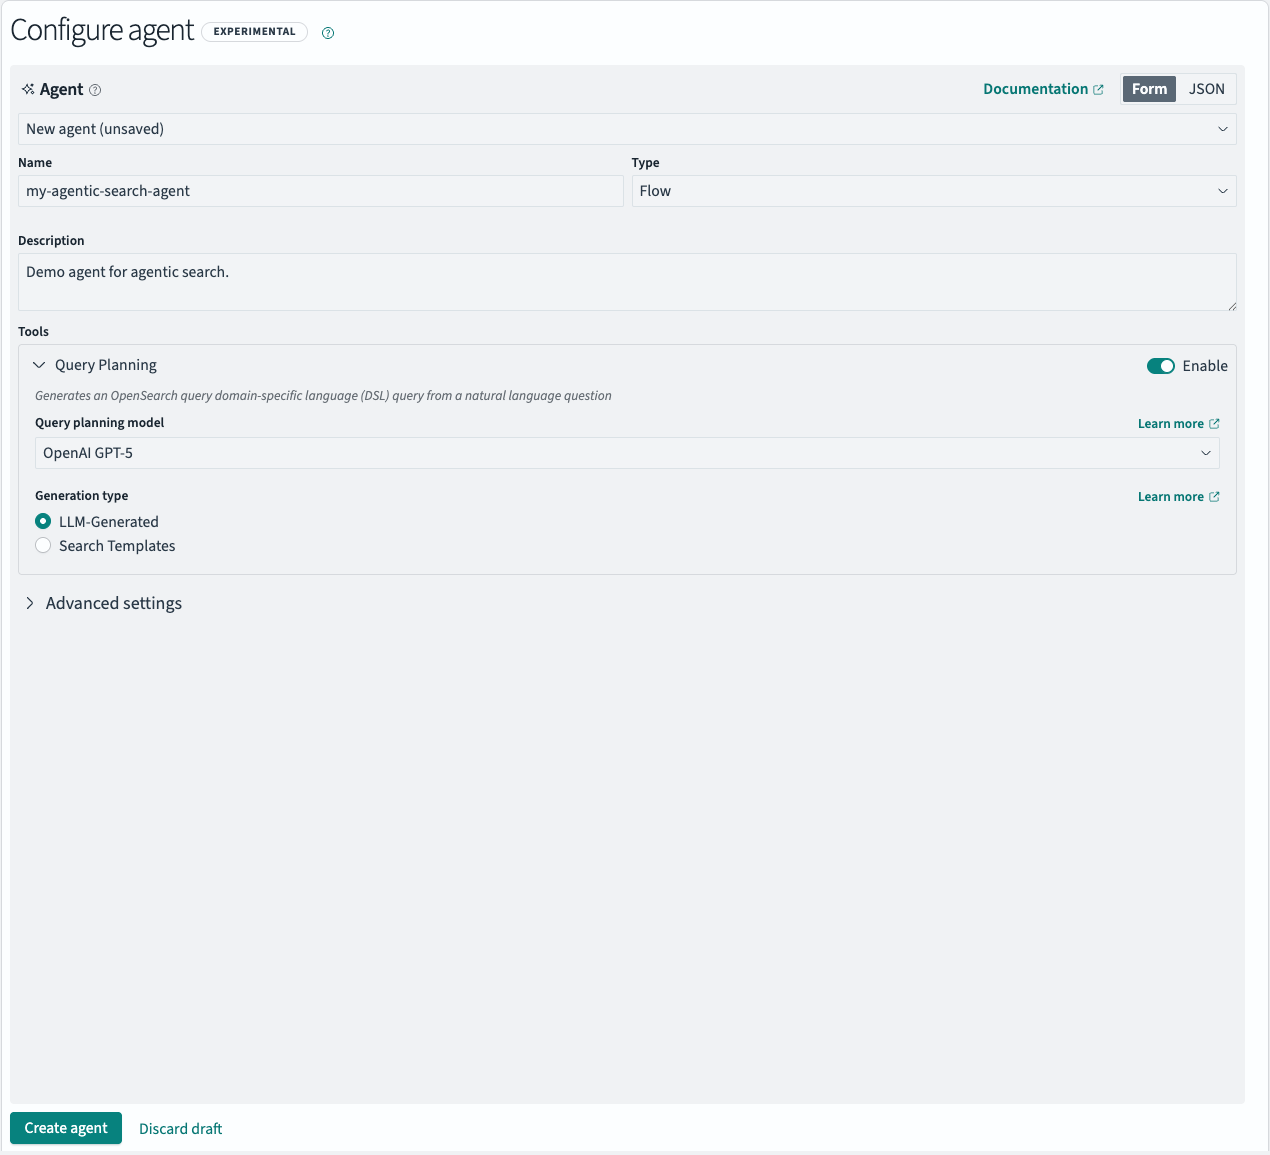
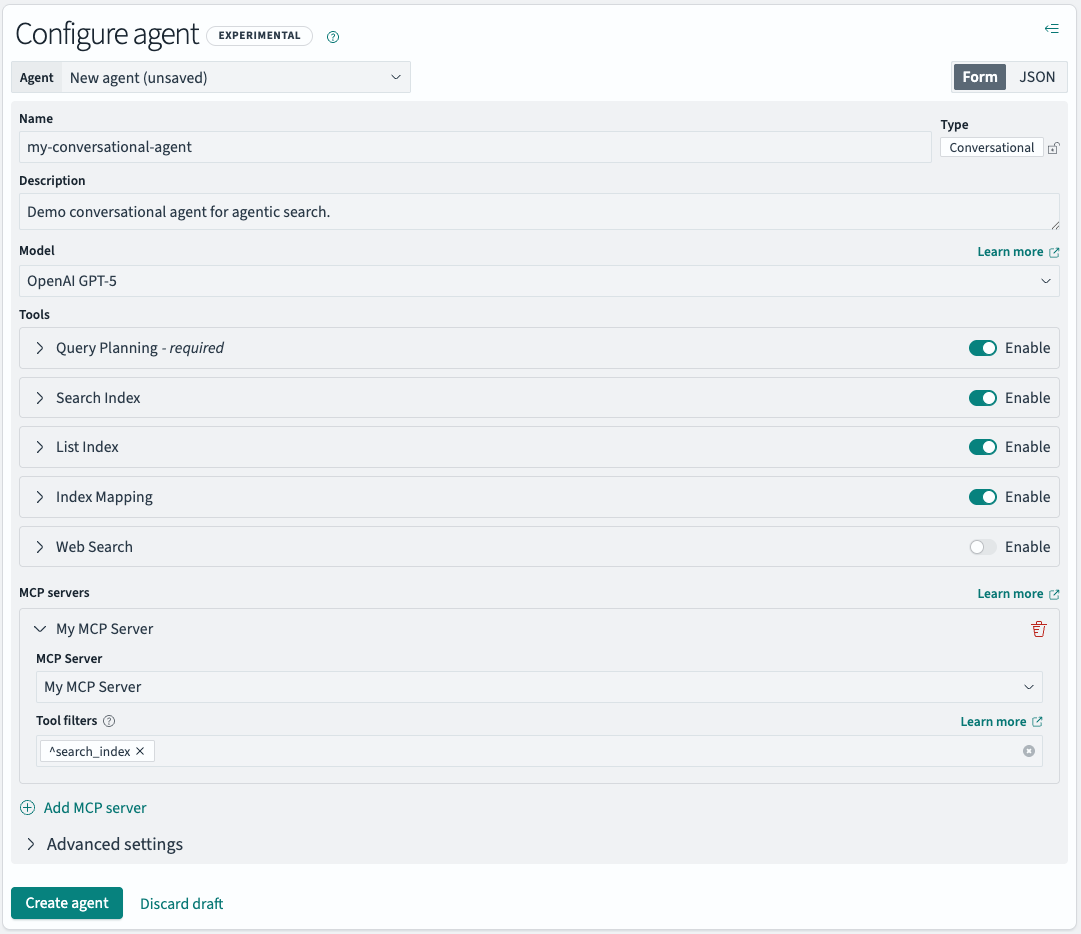
Update agentic search UI for 3.4

diff --git a/_vector-search/ai-search/building-agentic-search-flows.md b/_vector-search/ai-search/building-agentic-search-flows.md
@@ -7,13 +7,16 @@ nav_order: 20
 ---
 
 # Configuring agentic search
+
 **Introduced 3.3**
 {: .label .label-purple }
 
 This is an experimental UI feature. For updates on the progress of the feature or if you want to leave feedback, join the discussion on the [OpenSearch forum](https://forum.opensearch.org/).  
 {: .warning}
 
-[Agentic search]({{site.url}}{{site.baseurl}}/vector-search/ai-search/agentic-search/) lets you ask questions in natural language and have OpenSearch agents plan and execute the retrieval automatically. OpenSearch Dashboards offers an intuitive UI for configuring agents, equipping agents with different tools, and executing agentic searches.
+[Agentic search]({{site.url}}{{site.baseurl}}/vector-search/ai-search/agentic-search/) lets you ask questions in natural language and have OpenSearch agents plan and execute the retrieval automatically. OpenSearch Dashboards offers an intuitive UI for configuring agents, equipping agents with different tools, executing agentic searches, and how to use in your downstream applications.
+
+![Agentic search editor]({{site.url}}{{site.baseurl}}/images/dashboards-flow-framework/agentic-search-editor.png)
 
 ## Prerequisites
 
@@ -27,25 +30,89 @@ To configure new agents, be sure to first provision appropriate models. For work
 
 Ensure that you have a sufficient number of documents in your cluster to reasonably evaluate your agentic searches. For more information, see [Agentic search]({{site.url}}{{site.baseurl}}/vector-search/ai-search/agentic-search/).
 
-## Example: Product search with GPT-5
+## Accessing the plugin
 
-This example uses a deployed OpenAI GPT-5 model described in [this documentation]({{site.url}}{{site.baseurl}}/vector-search/ai-search/agentic-search/agent-customization/#gpt-5-recommended).
+To access the plugin, go to **OpenSearch Dashboards** and select **OpenSearch Plugins** > **AI Search Flows** from the top menu.
+
+## Configuring agents
+
+Agents are very customizable and can be configured in many different ways depending on your target use case. The following image shows a fully-configured conversational agent.
+
+![Agent configuration]({{site.url}}{{site.baseurl}}/images/dashboards-flow-framework/agent-configuration.png)
+
+### Agent types
+
+`Flow` agents are optimized for speed and simplicity in query generation. `Conversational` agents can be configured with more tools and functionality for deeper thinking. Agent types can only be configured **once** during agent creation.
+
+When configuring `Flow` agents, ensure to add an appropriate `response_filter` in the **Query Planning** tool. For more details, see [Register a flow agent]({{site.url}}{{site.baseurl}}/vector-search/ai-search/agentic-search/flow-agent/#step-4-register-a-flow-agent).  
 {: .note}
 
-To build and test your agentic search workflow in OpenSearch Dashboards, follow these steps:
+### Models
 
-1. Go to **OpenSearch Dashboards** and select **OpenSearch Plugins** > **AI Search Flows** from the top menu.
-1. On the **Workflows** page, select the **New workflow** tab, as shown in the following image. In the **Agentic Search** template, select **Create**.
+Models can be optimized for different scenarios: cost-efficient, fast inference versus resource-intensive, deep-thinking approaches. For a list of tested, compatible models, see [Model configuration]({{site.url}}{{site.baseurl}}/vector-search/ai-search/agentic-search/agent-customization/#model-configuration).
+
+### Tools
+
+All agents must have the **Query Planning** tool enabled for executing agentic searches. Query generation can be entirely LLM-generated (default), or can be steered to select from a list of available search templates. Search templates can be useful to maintain control over the queries generated, and for the model to leverage known, working, and performant queries.
+![Search templates]({{site.url}}{{site.baseurl}}/images/dashboards-flow-framework/agentic-search-search-template.png)
+
+Other pre-built tools are available for `Conversational` agents, including **Search Index**, **List Index**, **Index Mapping**, and **Web Search**. Enable these to extend your agent's capabilities.
+
+### MCP servers
+
+Integrate with MCP servers to let `Conversational` agents access more external tools. Limit which tools the agents can access by configuring filters under **Tool filters**. For more information, see [Using external MCP servers]({{site.url}}{{site.baseurl}}/vector-search/ai-search/agentic-search/mcp-server).
+
+## Running agentic searches
+
+Test how the agents perform with different indices and different search queries. Collapse the **Configure agent** panel to focus entirely on running searches and viewing the search responses. The following image shows a search for **mens blue shirts** against an index **demo_amazon_fashion** with relevant result images.
+
+![Agent configuration]({{site.url}}{{site.baseurl}}/images/dashboards-flow-framework/agentic-search-configuration.png)
+
+### Index
+
+Try out different indices in your cluster. Select the **Inspect** button to view the index details. For `Conversational` agents, you can default to **All indices** and let the agent decide.
+
+### Agent
+
+Try out different agents you've created. Select the **Inspect** button to view the agent details.
+
+### Query
+
+Try out different natural language queries. You can also specify query fields for the agent to focus on in your selected index. To edit the full `agentic` search query directly, toggle to the **JSON** view. For `Conversational` agents, select **Continue conversation** after a search to persist the context for future searches. Select **Clear conversation** to remove any history and start a new conversation.
+
+### Running searches
+
+Select **Search** to execute an agentic search. This can take several seconds for the agent to reason about the query, analyze the indices and their mappings, and any other tool orchestration and execution the agent decided to do. If it's taking too long, or you want to try a new search, you can select **Stop**.
+
+Once the search is completed, under **Generated query**, view the query domain-specific language (DSL) that the agent generated and ran against your cluster. Under **Search results**, view the search response. Depending on the response, you may see different tabs available, such as **Aggregations** if the response contains aggregations, or **Visual hits** if the documents contain images. **Raw response** will always be available. If the search was executed with a `Conversational` agent, you can select **View agent summary** to get a step-by-step breakdown of the agent's actions, including the sequence of tools it used and why.
+
+### Using in your application
+
+Select **Export** to view all of the underlying resources needed for leveraging agentic search in your downstream application, including the agent and search pipeline details.
+
+![Agentic search export]({{site.url}}{{site.baseurl}}/images/dashboards-flow-framework/agentic-search-export.png)
+
+## Example: Product search with GPT-5
+
+This example uses a deployed OpenAI GPT-5 model described in [this documentation]({{site.url}}{{site.baseurl}}/vector-search/ai-search/agentic-search/agent-customization/#gpt-5-recommended), and an index generated from [Fashion Product Images Dataset](https://www.kaggle.com/datasets/paramaggarwal/fashion-product-images-dataset).
+{: .note}
+
+1. Navigate to the **AI Search Flows** plugin. On the **Workflows** page, select the **New workflow** tab, as shown in the following image. In the **Agentic Search** template, select **Create**.
    ![New workflow page]({{site.url}}{{site.baseurl}}/images/dashboards-flow-framework/new-workflow-page.png)
-1. Provide a unique workflow **Name** and an optional **Description**, as shown in the following image. Then select **Create** to create your workflow. You are automatically directed to the workflow editor, where you can begin configuring the agent.
-     ![Quick configure modal]({{site.url}}{{site.baseurl}}/images/dashboards-flow-framework/agentic-search-quick-configure-modal.png)
-1. Under **Configure agent**, select **Create new agent**, as shown in the following image. Once you configure an agent, you can select or update existing agents. For full agent customization, toggle to the `JSON` view and edit directly.
-    ![Agentic search workflow editor]({{site.url}}{{site.baseurl}}/images/dashboards-flow-framework/agentic-search-editor.png)
-1. Under **Agent**, enter a unique **Name** and **Description** for the agent, as shown in the following image. Under **Tools** > **Query Planning** > **Query planning model**, select **OpenAI GPT-5**. Then select **Create agent**.
-    ![Agent configuration]({{site.url}}{{site.baseurl}}/images/dashboards-flow-framework/agent-configuration.png)
-1. Under **Test flow** > **Index**, select the index you'd like to search, as shown in the following image. Under **Test flow** > **Query**, enter a natural language query. Optionally, specify query fields for the agent to search in your selected index. To edit the full `agentic` search query directly, toggle to the `JSON` view. Then select **Search**. The agent may take several seconds to execute.
-    ![Agent searching]({{site.url}}{{site.baseurl}}/images/dashboards-flow-framework/agent-searching.png)
-1. Under **Generated query**, view the query domain-specific language (DSL) that the agent generated and ran against your cluster.
-    ![Agent query]({{site.url}}{{site.baseurl}}/images/dashboards-flow-framework/agentic-search-agent-query.png)
-1. Under **Search results**, select **Raw response**, the formatted table of **Hits**, or **Aggregations** to view the results.
-    ![Search results]({{site.url}}{{site.baseurl}}/images/dashboards-flow-framework/agentic-search-results.png)
+2. Provide a unique workflow **Name** and an optional **Description**, as shown in the following image. Then select **Create** to create your workflow. You are automatically directed to the workflow editor, where you can begin configuring the agent.
+   ![Quick configure modal]({{site.url}}{{site.baseurl}}/images/dashboards-flow-framework/agentic-search-quick-configure-modal.png)
+3. Under **Configure agent**, select **Create new agent**. Enter a unique **Name**, optionally provide a **Description**, and under **Model**, select the deployed **OpenAI GPT-5** model. Finally, select **Create agent** at the bottom.
+   ![Agentic search configuration]({{site.url}}{{site.baseurl}}/images/dashboards-flow-framework/agentic-search-example-configuration.png)
+4. Under **Agentic search**, select the index you'd like to search against. The agent will already be selected.
+5. Under **Query**, enter a natural language query about your data. Select **Search** to run an agentic search.
+   ![Agentic search]({{site.url}}{{site.baseurl}}/images/dashboards-flow-framework/agentic-search-example-search.png)
+6. View the agent's generated query, the search hits, and agent summary.
+   ![Agentic search results]({{site.url}}{{site.baseurl}}/images/dashboards-flow-framework/agentic-search-example-search-results.png)
+
+## Next steps
+
+- Learn more about Agentic Search [here]({{site.url}}{{site.baseurl}}/vector-search/ai-search/agentic-search/)
+- Learn more about agents [here]({{site.url}}{{site.baseurl}}/ml-commons-plugin/agent-tools/agents/index/)
+- Join the discussion on the [OpenSearch forum](https://forum.opensearch.org/)
+- For any issues or bugs found, please open an issue on [GitHub](https://github.com/opensearch-project/dashboards-flow-framework)
+- TODO link to blog
